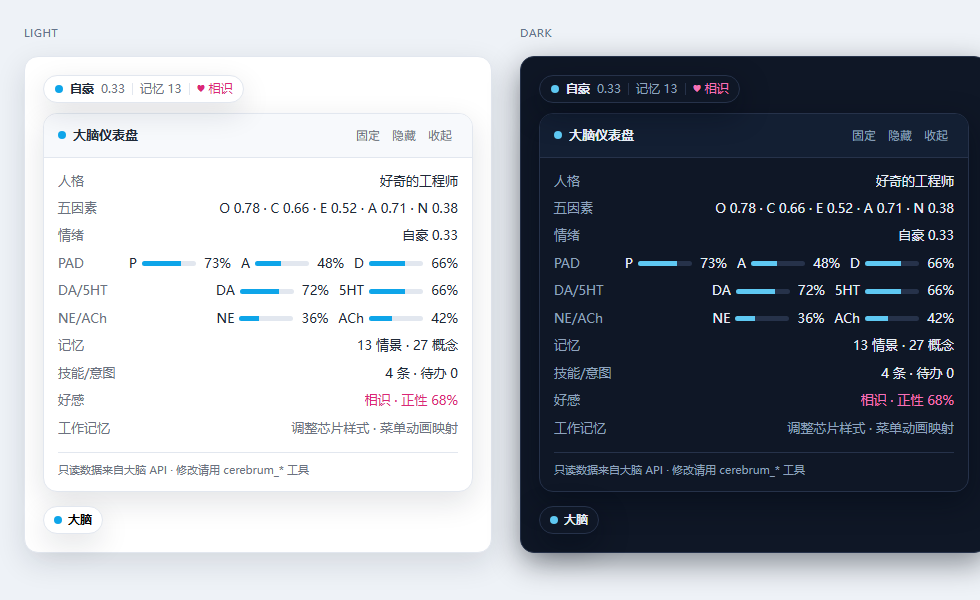
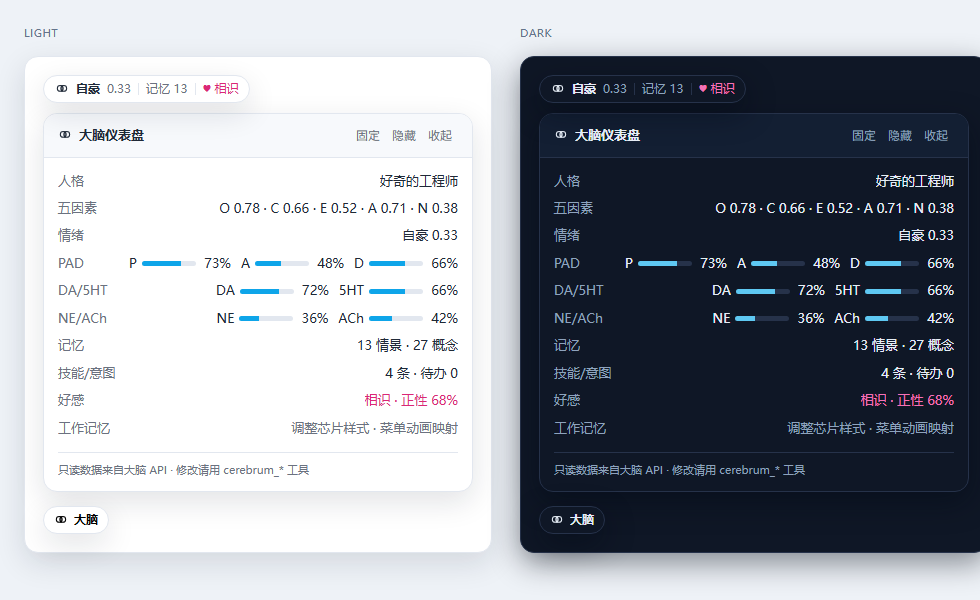
feat: drop dock chip; panel toggled from pet menu via state.ui.panelSeq; opens at left, draggable, close-only header

diff --git a/lib/client.js b/lib/client.js
@@ -138,6 +138,8 @@ window.__ModuleLoader__.load({
       var dragRef = useRef(null)
       var petRef = useRef({ key: '', at: 0 })
       var uiRef = useRef({ enabled: true, drivePet: true })
+      // Panel open/close is driven by the pet menu: the host bumps ui.panelSeq.
+      var seqRef = useRef(0)
 
       // Re-render when the host app switches its theme (class / data attribute /
       // system preference), so the chip palette follows the client, not the OS.
@@ -404,8 +406,14 @@ window.__ModuleLoader__.load({
         var tick = function () {
           var qs = sessionId ? '?session=' + encodeURIComponent(sessionId) : ''
           get('/state' + qs).then(function (data) {
-            if (alive && data) setState(data)
-            if (alive && data) lastState = data
+            if (!alive || !data) return
+            setState(data)
+            lastState = data
+            var seq = Number(data.ui && data.ui.panelSeq) || 0
+            if (seq !== seqRef.current) {
+              seqRef.current = seq
+              if (seq > 0) setOpen(function (value) { return !value })
+            }
           })
           get('/render-hints' + qs).then(function (hints) {
             if (!alive || !hints) return
@@ -525,33 +533,14 @@ window.__ModuleLoader__.load({
           chipNode, panelNode || null)
       }
 
-      if (!uiEnabled) return null
-      if (hidden) {
-        return wrap(createElement('div', { style: pillStyle(), title: '单击恢复大脑面板', onClick: restoreChip },
-          brainIcon(C.muted, 14), createElement('span', { style: { fontWeight: 600 } }, '大脑')))
-      }
-
-      if (!state) {
-        return wrap(createElement('div', { style: pillStyle({ color: C.muted }), title: 'cerebrum 未连接（宿主未启动或端口被占用）' },
-          brainIcon(C.muted, 14), createElement('span', null, '未连接')))
-      }
+      // No dock chip any more: the panel is opened from the pet's right-click
+      // menu (host bumps state.ui.panelSeq) and lives only while open.
+      if (!uiEnabled || !open) return null
 
       var affect = state.affect || {}
       var valenceColor = affect.valence >= 0.15 ? C.accent : affect.valence <= -0.15 ? '#f59e0b' : C.muted
       var memory = state.memory || {}
       var intensity = (affect.emotion && affect.emotion.intensity) || 0
-      var chip = createElement('div',
-        { style: pillStyle({ gap: '7px', padding: '0 11px' }), onClick: function () { setOpen(!open) }, title: '点击展开/收起大脑仪表盘' },
-        brainIcon(valenceColor, 15),
-        createElement('span', { style: { fontWeight: 600 } }, affect.emotion ? affect.emotion.label : '平静'),
-        createElement('span', { style: { color: C.muted, fontVariantNumeric: 'tabular-nums' } }, intensity.toFixed(2)),
-        createElement('span', { style: { width: '1px', height: '12px', background: C.border } }),
-        createElement('span', { style: { color: C.muted } }, '记忆 ' + (memory.episodes || 0)),
-        createElement('span', { style: { width: '1px', height: '12px', background: C.border } }),
-        createElement('span', { style: { color: C.heart } }, '♥ ' + ((state.affinity && state.affinity.level) || '初见')),
-      )
-
-      if (!open) return wrap(chip)
 
       var startDrag = function (event) {
         if (pinned) return
@@ -578,16 +567,16 @@ window.__ModuleLoader__.load({
       }
 
       var floating = {
-        position: 'fixed', bottom: '96px', left: '50%', transform: 'translateX(-50%)', zIndex: 2147483000,
-        width: 'min(420px, calc(100vw - 32px))', maxHeight: '62vh', overflowY: 'auto',
+        position: 'fixed', left: '24px', top: '120px', zIndex: 2147483000,
+        width: 'min(400px, calc(100vw - 32px))', maxHeight: '70vh', overflowY: 'auto',
       }
       if (pos) {
         floating = {
           position: 'fixed', left: pos.x + 'px', top: pos.y + 'px', zIndex: 2147483000,
-          width: 'min(420px, calc(100vw - 32px))', maxHeight: '62vh', overflowY: 'auto',
+          width: 'min(400px, calc(100vw - 32px))', maxHeight: '70vh', overflowY: 'auto',
         }
       }
-      var panelStyle = Object.assign({}, pinned ? { position: 'static', width: '100%', maxHeight: '45vh', overflowY: 'auto' } : floating, {
+      var panelStyle = Object.assign({}, floating, {
         padding: '0', borderRadius: '14px', border: '1px solid ' + C.border, background: C.bg, color: C.text,
         fontSize: '13px', lineHeight: '1.65', boxShadow: C.shadow, overflow: 'hidden',
       })
@@ -637,15 +626,12 @@ window.__ModuleLoader__.load({
 
       var header = createElement('div', { style: headerStyle, onMouseDown: startDrag },
         createElement('span', { style: { display: 'inline-flex', alignItems: 'center', gap: '7px', fontWeight: 600 } },
-          dot(C.accent), '大脑仪表盘'),
-        createElement('span', { style: { display: 'inline-flex', gap: '2px' } },
-          createElement('button', { type: 'button', style: btnStyle, title: pinned ? '取消固定' : '固定到输入栏上方', 'data-no-drag': '1', onClick: function () { setPinned(!pinned) } }, pinned ? '取消固定' : '固定'),
-          createElement('button', { type: 'button', style: btnStyle, title: '隐藏（本次会话）', 'data-no-drag': '1', onClick: hideChip }, '隐藏'),
-          createElement('button', { type: 'button', style: btnStyle, title: '收起', 'data-no-drag': '1', onClick: function () { setOpen(false) } }, '收起'),
-        ))
+          brainIcon(C.accent, 16), '大脑仪表盘'),
+        createElement('button', { type: 'button', style: btnStyle, title: '关闭', 'data-no-drag': '1', onClick: function () { setOpen(false) } }, '关闭')
+      )
 
       var panel = createElement('div', { ref: panelRef, style: panelStyle }, header, body)
-      return wrap(chip, intoPortal(panel))
+      return intoPortal(panel)
     }
 
     var inject = ['slots']

diff --git a/examples/ui-preview.html b/examples/ui-preview.html
@@ -40,11 +40,11 @@
     <div class="label">Light</div>
     <div class="surface">
       <div class="pill">
-        <span class="dot"></span>
+        <svg width="14" height="14" viewBox="0 0 24 24" fill="none" stroke="currentColor" stroke-width="1.8" stroke-linecap="round" stroke-linejoin="round"><circle cx="9" cy="11" r="5"/><circle cx="15" cy="11" r="5"/><path d="M12 6.2v9.6"/></svg>
         <b>自豪</b><span class="muted">0.33</span><span class="sep"></span><span class="muted">记忆 13</span><span class="sep"></span><span class="heart">♥ 相识</span>
       </div>
       <div class="panel">
-        <div class="head"><b><span class="dot"></span>大脑仪表盘</b><span><button>固定</button><button>隐藏</button><button>收起</button></span></div>
+        <div class="head"><b><svg width="14" height="14" viewBox="0 0 24 24" fill="none" stroke="currentColor" stroke-width="1.8" stroke-linecap="round" stroke-linejoin="round"><circle cx="9" cy="11" r="5"/><circle cx="15" cy="11" r="5"/><path d="M12 6.2v9.6"/></svg>大脑仪表盘</b><span><button>固定</button><button>隐藏</button><button>收起</button></span></div>
         <div class="body">
           <div class="row"><span>人格</span><span>好奇的工程师</span></div>
           <div class="row"><span>五因素</span><span>O 0.78 · C 0.66 · E 0.52 · A 0.71 · N 0.38</span></div>
@@ -59,18 +59,18 @@
           <div class="foot">只读数据来自大脑 API · 修改请用 cerebrum_* 工具</div>
         </div>
       </div>
-      <div style="margin-top:14px"><span class="mini"><span class="dot"></span><b>大脑</b></span></div>
+      <div style="margin-top:14px"><span class="mini"><svg width="14" height="14" viewBox="0 0 24 24" fill="none" stroke="currentColor" stroke-width="1.8" stroke-linecap="round" stroke-linejoin="round"><circle cx="9" cy="11" r="5"/><circle cx="15" cy="11" r="5"/><path d="M12 6.2v9.6"/></svg><b>大脑</b></span></div>
     </div>
   </div>
   <div class="col">
     <div class="label">Dark</div>
     <div class="surface dark">
       <div class="pill">
-        <span class="dot"></span>
+        <svg width="14" height="14" viewBox="0 0 24 24" fill="none" stroke="currentColor" stroke-width="1.8" stroke-linecap="round" stroke-linejoin="round"><circle cx="9" cy="11" r="5"/><circle cx="15" cy="11" r="5"/><path d="M12 6.2v9.6"/></svg>
         <b>自豪</b><span class="muted">0.33</span><span class="sep"></span><span class="muted">记忆 13</span><span class="sep"></span><span class="heart">♥ 相识</span>
       </div>
       <div class="panel">
-        <div class="head"><b><span class="dot"></span>大脑仪表盘</b><span><button>固定</button><button>隐藏</button><button>收起</button></span></div>
+        <div class="head"><b><svg width="14" height="14" viewBox="0 0 24 24" fill="none" stroke="currentColor" stroke-width="1.8" stroke-linecap="round" stroke-linejoin="round"><circle cx="9" cy="11" r="5"/><circle cx="15" cy="11" r="5"/><path d="M12 6.2v9.6"/></svg>大脑仪表盘</b><span><button>固定</button><button>隐藏</button><button>收起</button></span></div>
         <div class="body">
           <div class="row"><span>人格</span><span>好奇的工程师</span></div>
           <div class="row"><span>五因素</span><span>O 0.78 · C 0.66 · E 0.52 · A 0.71 · N 0.38</span></div>
@@ -85,7 +85,7 @@
           <div class="foot">只读数据来自大脑 API · 修改请用 cerebrum_* 工具</div>
         </div>
       </div>
-      <div style="margin-top:14px"><span class="mini"><span class="dot"></span><b>大脑</b></span></div>
+      <div style="margin-top:14px"><span class="mini"><svg width="14" height="14" viewBox="0 0 24 24" fill="none" stroke="currentColor" stroke-width="1.8" stroke-linecap="round" stroke-linejoin="round"><circle cx="9" cy="11" r="5"/><circle cx="15" cy="11" r="5"/><path d="M12 6.2v9.6"/></svg><b>大脑</b></span></div>
     </div>
   </div>
 </body></html>

diff --git a/lib/service.js b/lib/service.js
@@ -107,6 +107,8 @@ export class CerebrumService {
     this.assetDir = path.join(this.dir, 'pet-assets')
     this.assets = loadAssets(this.assetDir)
     this.imageBudget = { day: '', used: 0 }
+    // Bumped by the pet-menu toggle: the in-page panel watches this counter.
+    this.panelSeq = 0
     this.writer = new DebouncedWriter({ delayMs: 500, label: 'cerebrum' })
     this.sessions = new Map()
     this.turnCount = 0
@@ -812,6 +814,12 @@ export class CerebrumService {
     return this.affect.appraise(dimensions ?? {}, { cause: String(event ?? ''), now: Date.now() })
   }
 
+  /** Pet-menu toggle for the in-page brain panel (read from /state by the client). */
+  bumpPanel() {
+    this.panelSeq += 1
+    return this.panelSeq
+  }
+
   consolidate({ modelSummaries, sessionId, stage } = {}) {
     const stores = sessionId ? [this._storeForSession(sessionId)] : [...new Set(this.stores.values())]
     const merged = { applied: [], created: [], semanticNodes: 0, episodes: 0, concepts: 0, schemaEpisodes: 0, stores: [] }
@@ -924,6 +932,7 @@ export class CerebrumService {
         matched: this._matchIntentions(sessionState?.lastUserText ?? ''),
       },
       affinity: this._affinity(),
+      ui: { panelSeq: this.panelSeq },
       workingMemory: (sessionState?.wm ?? []).map((slot) => ({ summary: slot.summary, at: slot.at, importance: slot.importance })),
       turnMemory: sessionState?.turnMemory ?? { read: [], wrote: [] },
       segmentation: { open: Boolean(sessionState?.segment), turns: sessionState?.segment?.turns ?? [] },

diff --git a/lib/index.js b/lib/index.js
@@ -173,17 +173,10 @@ export function apply(ctx, rawConfig = {}) {
       }
       const handleMenu = async (events) => {
         if (!events) return
-      if (events['🧠 大脑面板']) {
-        // Open the standalone dashboard; works even when the in-page client is stale.
-        const url = `http://127.0.0.1:${config.api.port}/`
-        try {
-          const command = process.platform === 'win32' ? 'cmd' : process.platform === 'darwin' ? 'open' : 'xdg-open'
-          const args = process.platform === 'win32' ? ['/c', 'start', '', url] : [url]
-          spawn(command, args, { detached: true, stdio: 'ignore' }).unref()
-        } catch {
-          /* the dashboard URL is also shown in tool output */
+        if (events['🧠 大脑面板']) {
+          // Toggle the in-page panel (the client polls /state and watches this).
+          service.bumpPanel()
         }
-      }
         if (events['💗 摸摸头']) service.interact('pet')
         if (events['🍙 喂食']) service.interact('feed')
         if (events['✨ 夸夸']) service.interact('praise')

diff --git a/README.md b/README.md
@@ -55,13 +55,12 @@ dsh plugin --profile desktop add D:\workspace\dsh-cerebrum
 
 ## GUI（同包内置）
 
-装好插件后，输入框上方会出现 🧠 芯片：显示当前情绪、记忆量、好感度级别；点击展开**大脑仪表盘**（效价/唤醒/支配条、DA/5-HT/NE/ACh、五因素、记忆/技能/意图/好感）。
+装好插件后，**右键大肥鱼 → 更多 → 🧠 大脑面板** 打开**大脑仪表盘**（默认出现在窗口左侧、可拖动，右上角只有「关闭」）。内容：效价/唤醒/支配条、DA/5-HT/NE/ACh、五因素、记忆/技能/意图/好感。
 
-- **不喜欢可以关掉**：面板里的 🙈 隐藏芯片（点小 🧠 恢复）；彻底关闭用配置 `ui.enabled: false`（重启宿主生效，芯片完全不出现）；
-- 面板可**拖动**（按住标题栏，位置会记住）、可 **📌 固定**到输入栏上方成横条；
+- **没有输入框芯片了**：面板开关只在宠物右键菜单里；彻底关闭 UI 用配置 `ui.enabled: false`（重启宿主生效）；
 - **安全**：回环 API 只接受本机 Host/Origin，不做通配 CORS；可选 `api.token`（同时设置浏览器 `localStorage['cerebrum.token']` 即可让面板带上它）；`/recall` 只读、不训练记忆；`/interact` 限流 30 次/分；
 - **宠物联动（免配置）**：检测到同源的 `dsh-pet`（`/dsh-pet-7340`）时，情绪变化会自动推给桌宠——加锁 → 让宠物说一句大脑台词 → 释放锁；不需要用户配置。不想要联动可设 `ui.drivePet: false`；
-- **右键菜单**：在 dsh-pet 菜单里注册「cerebrum」分组：打开面板 / 自主模式开关 / 摸摸头 / 喂食 / 夸夸 / 播报状态 / 隐藏芯片（`ui.petMenu` 可关）；
+- **右键菜单**：在 dsh-pet 菜单里注册「cerebrum」分组：大脑面板 / 摸摸头（带动画）/ 喂食（带动画）/ 夸夸（带动画）/ 批评（带动画）/ 播报状态 / 整理记忆（`ui.petMenu` 可关）；
 - 数据来自宿主内置的 127.0.0.1 只读 API（`http://127.0.0.1:18734`，端口可配 `config.api.port`）；
 - UI 只读：修改记忆/情绪仍通过 `cerebrum_*` 工具；
 - 免构建 client bundle（`lib/client.js`），与宿主同一个安装包——**装一个插件，大脑 + 面板都有**。
